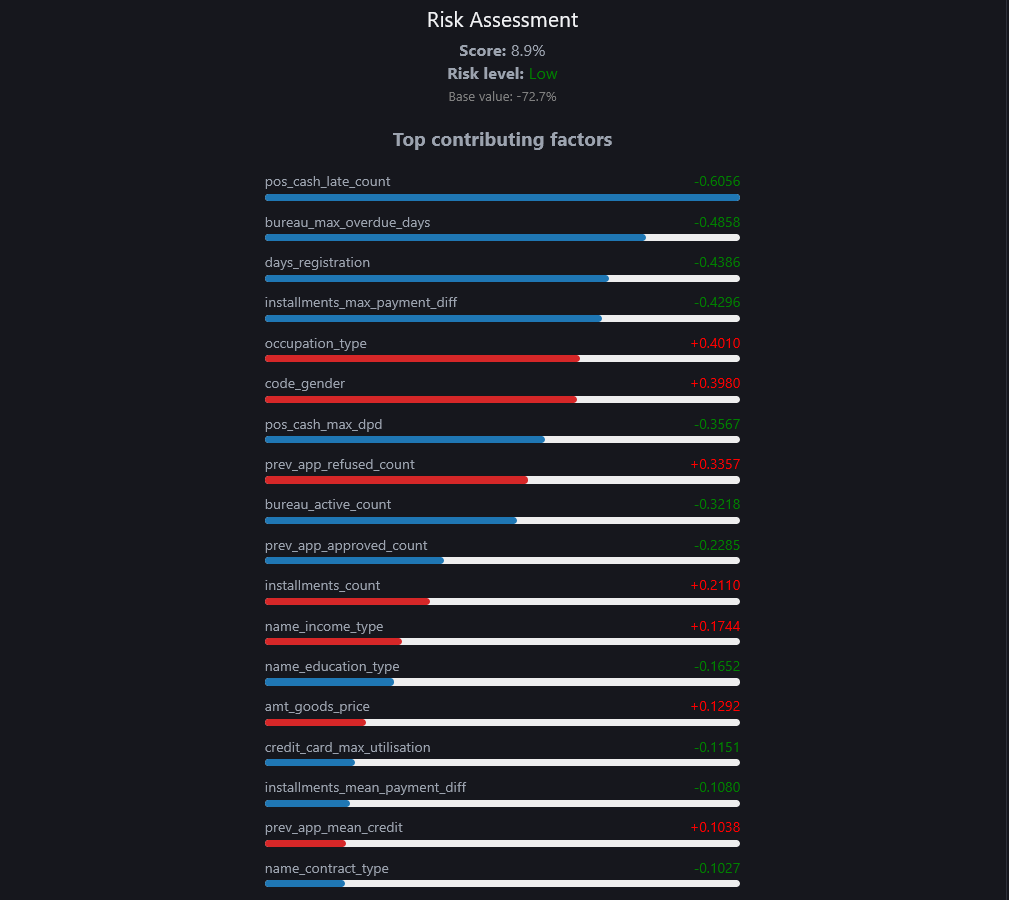
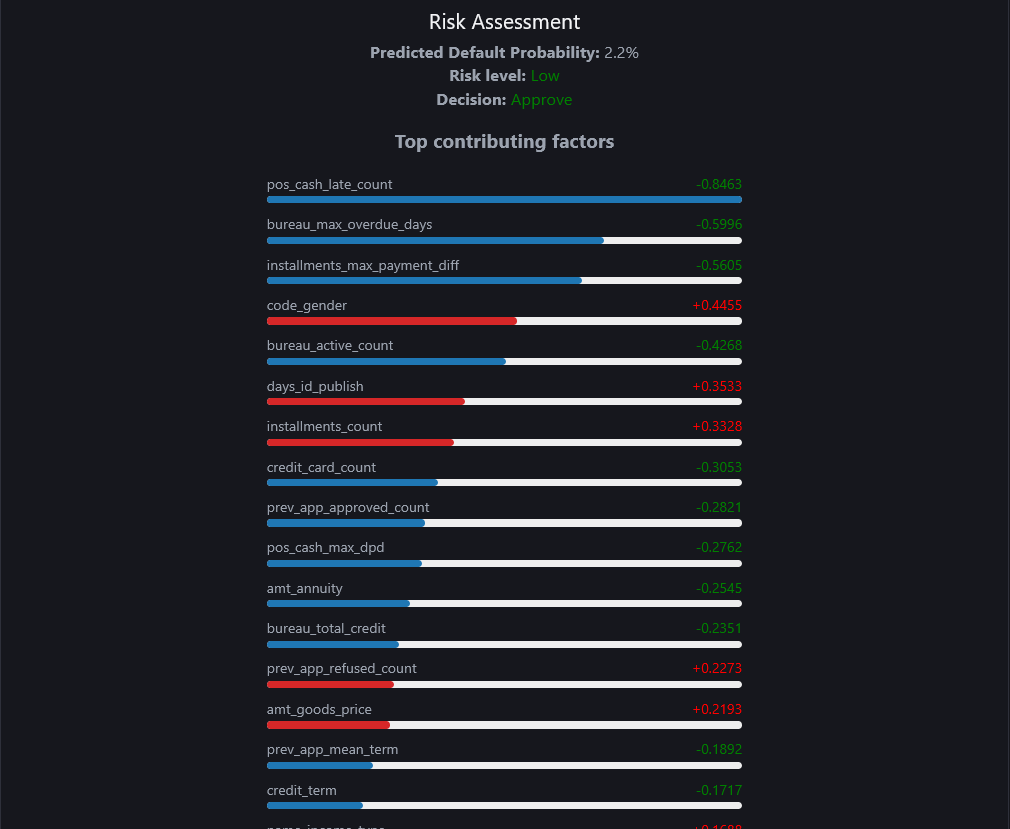
fix: calibrate UI risk thresholds using MLFlow evaluation run metrics

Changed region(s): [[0.2458, 0.1809, 0.7374, 1.0], [0.3687, 0.0, 0.6452, 0.1809], [0.9832, 0.0, 1.0, 1.0]]

diff --git a/frontend/src/components/RiskResult.tsx b/frontend/src/components/RiskResult.tsx
@@ -5,9 +5,35 @@ interface Props {
 }
 
 export default function RiskResult({ result }: Props) {
-  const percentage = (result.risk_score * 100).toFixed(1);
-  const risk = result.risk_score > 0.5 ? "High" : "Low";
-  const color = result.risk_score > 0.5 ? "red" : "green";
+  // Threshold chosen from evaluate.py's threshold analysis (see MLflow run
+  // 95e2d9f26bea48fdb1d1b701e21c864e), NOT the naive midpoint of 0.5, which
+  // given an 8% base default rate barely filters the applicant pool at all
+  // (default_rate_at_0_5 = 4.8%, only marginally better than the unconditional
+  // base rate of 8.07%). 0.2 targets a meaningfully safer approval pool
+  // (default_rate_at_0_2 = 2.25%) while keeping the approval rate ~27%.
+  const score = result.risk_score;
+  const percentage = (score * 100).toFixed(1);
+
+  let risk: "Low" | "Medium" | "High";
+  let color: "green" | "orange" | "red";
+  let decision: "Approve" | "Manual Review" | "Decline"
+
+  if (score <= 0.10) {
+    // 0% to 10%: Ultra-safe pool (default_rate_at_0_1 = 1.47%)
+    risk = "Low";
+    color = "green";
+    decision = "Approve";
+  } else if (score <= 0.20) {
+    // 10% to 20%: Moderate risk pool. Great for higher interest rates or manual underwriting review
+    risk = "Medium";
+    color = "orange";
+    decision = "Manual Review";
+  } else {
+    // 20%+: Toxic zone (Enforces 0.2 MLflow cutoff threshold to protect portfolio)
+    risk = "High";
+    color = "red";
+    decision = "Decline";
+  }
 
   const topFeatures = result.shap_features//.slice(0, 8);
   const maxAbsShap = Math.max(
@@ -19,15 +45,19 @@ export default function RiskResult({ result }: Props) {
       <h2>Risk Assessment</h2>
 
       <p>
-        <strong>Score:</strong> {percentage}%
+        <strong>Predicted Default Probability:</strong> {percentage}%
       </p>
       <p>
         <strong>Risk level:</strong>{" "}
         <span style={{ color }}>{risk}</span>
       </p>
-      <p style={{ fontSize: "0.8rem", color: "gray" }}>
-        Base value: {(result.base_value * 100).toFixed(1)}%
+      <p>
+        <strong>Decision:</strong>{" "}
+        <span style={{ color }}>{decision}</span>
       </p>
+      {/* <p style={{ fontSize: "0.8rem", color: "gray" }}>
+        Base value: {(result.base_value).toFixed(1)}
+      </p> */}
 
       <h3>Top contributing factors</h3>
       <div style={{ display: "flex", flexDirection: "column", gap: "0.5rem" }}>
